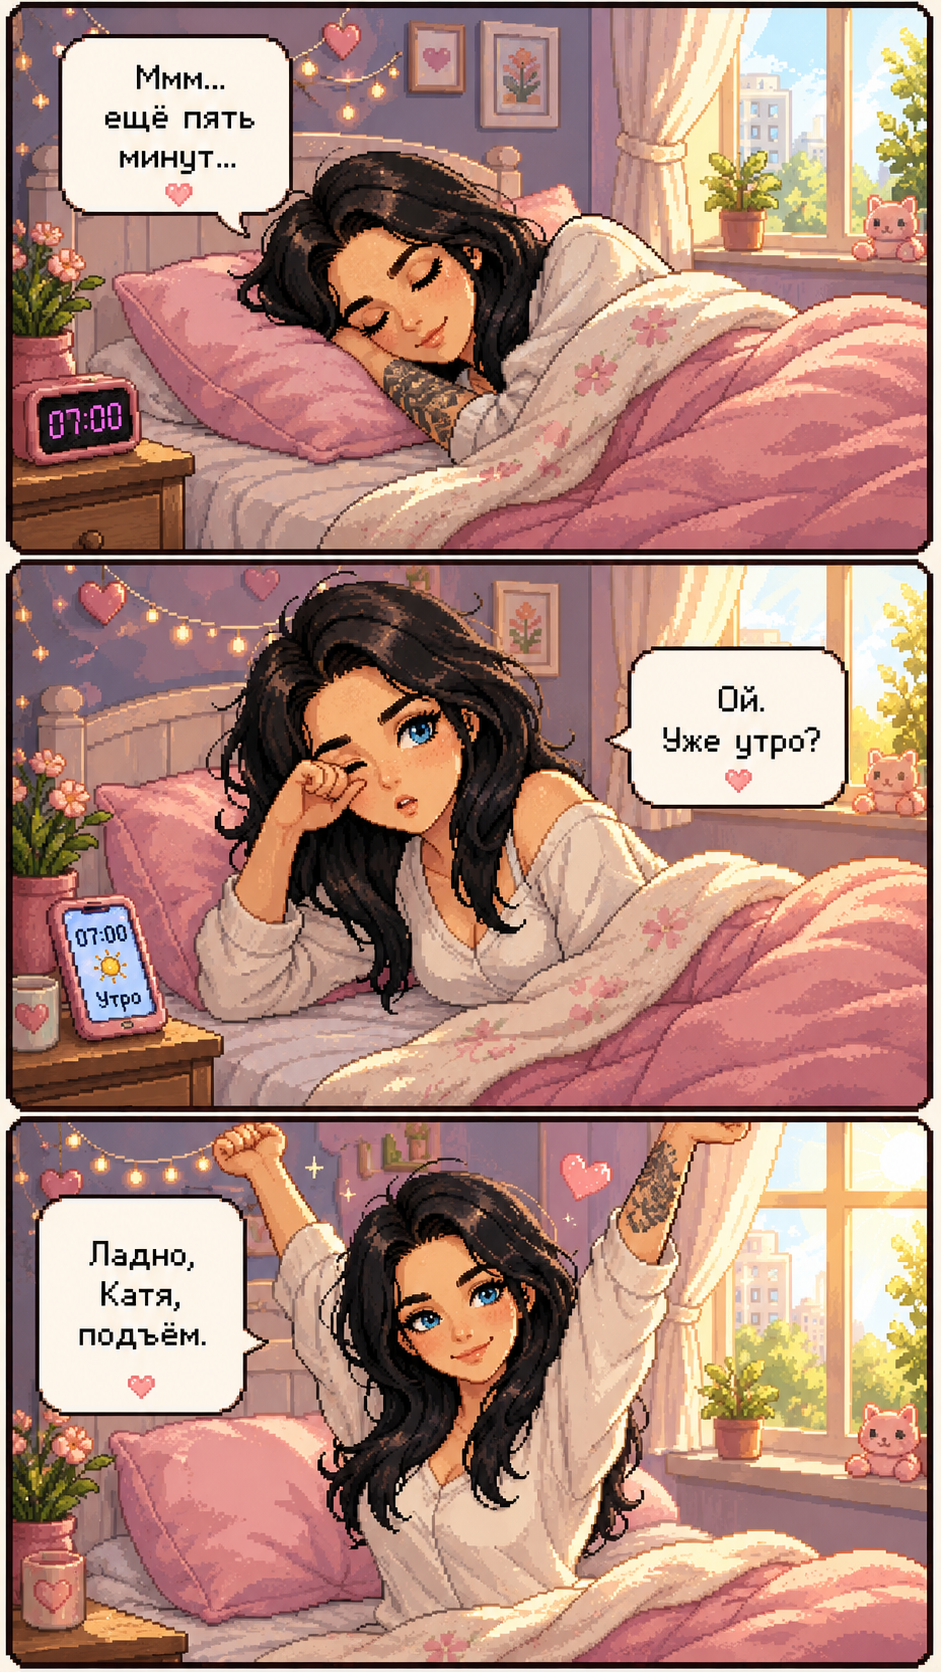
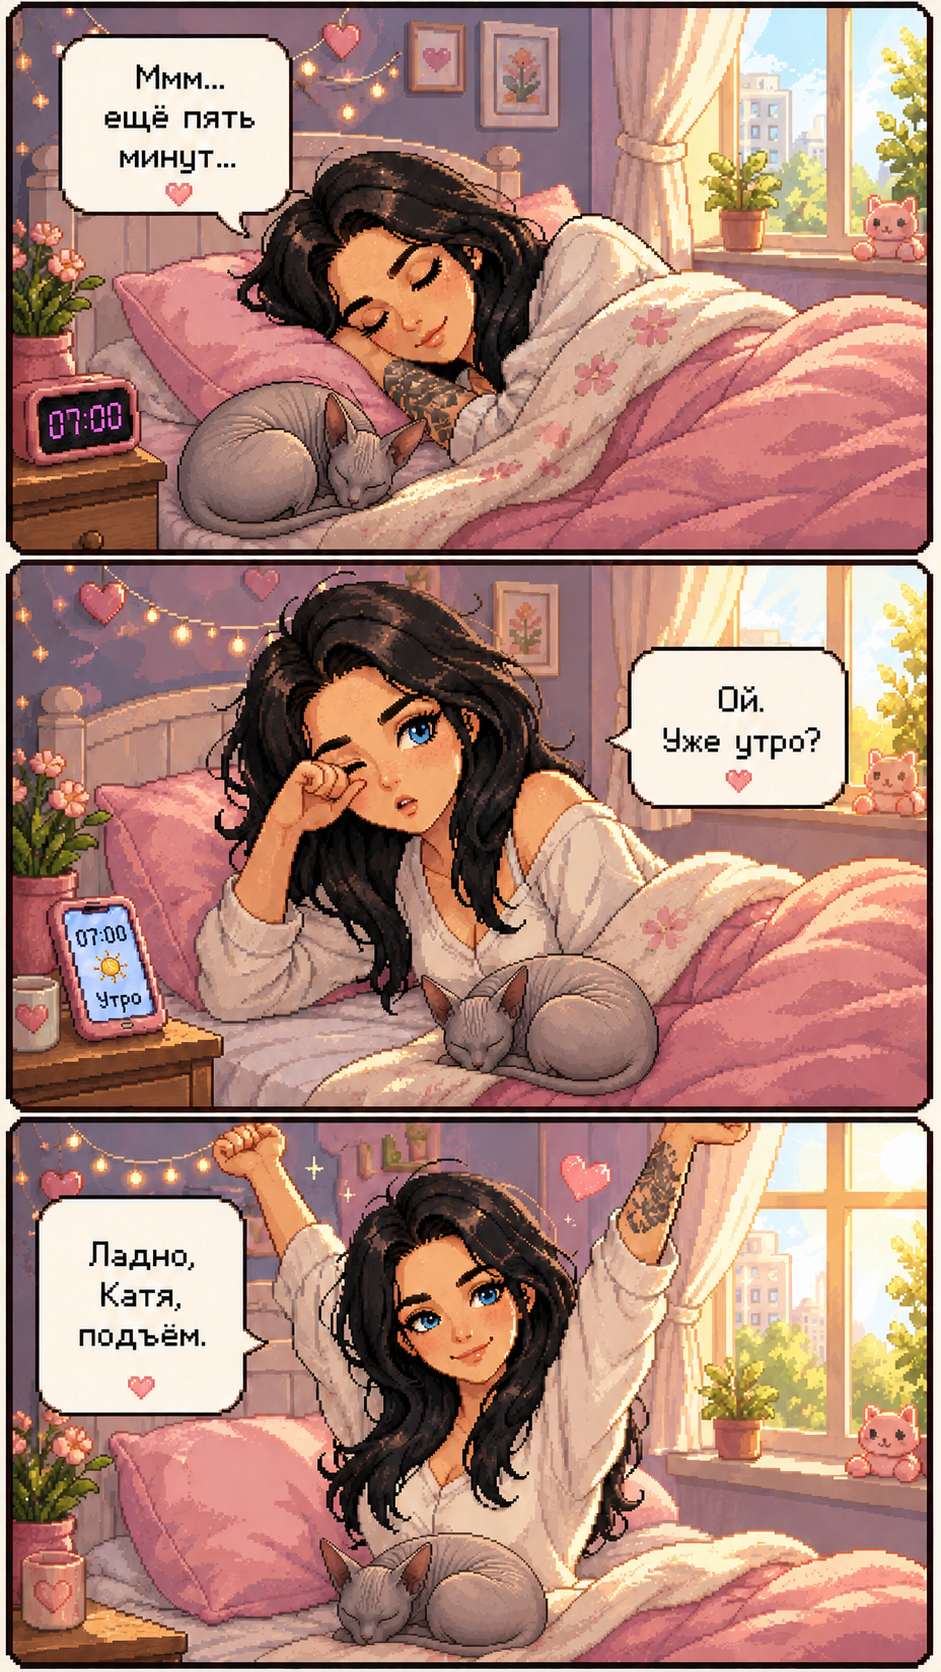
Add files via upload

diff --git a/index.html b/index.html
@@ -384,6 +384,29 @@
     px(x-2*s,y-15*s,4*s,3*s,palette.cyan);
     px(x-1*s,y+9*s,2*s,5*s,"#aaa");
   }
+  function drawSphynxCat(x,y,s=1,awake=false){
+    // curled hairless cat, gray-beige like the real kitty
+    px(x-16*s,y-8*s,30*s,18*s,"#b9aaa4");
+    px(x-13*s,y-11*s,24*s,16*s,"#c9bab4");
+    px(x-7*s,y-13*s,15*s,13*s,"#b8a9a4");
+    px(x-12*s,y-18*s,7*s,12*s,"#8f7774");
+    px(x+3*s,y-18*s,7*s,12*s,"#8f7774");
+    px(x-4*s,y-9*s,2*s,2*s,awake ? "#4ac7ff" : "#6f5f5a");
+    px(x+3*s,y-9*s,2*s,2*s,awake ? "#4ac7ff" : "#6f5f5a");
+    px(x-2*s,y-5*s,4*s,1*s,"#6f5f5a");
+    px(x-12*s,y-4*s,18*s,1*s,"#8f817c");
+    px(x-10*s,y+0*s,16*s,1*s,"#8f817c");
+    px(x+9*s,y+1*s,8*s,3*s,"#a69590");
+  }
+  function drawCatFoodBowl(x,y,s=1,filled=true){
+    px(x-14*s,y-4*s,28*s,8*s,"#72dcff");
+    px(x-10*s,y-7*s,20*s,5*s,"#aeeeff");
+    if(filled){
+      px(x-8*s,y-9*s,4*s,3*s,"#8b4b24");
+      px(x-2*s,y-10*s,4*s,3*s,"#8b4b24");
+      px(x+4*s,y-9*s,4*s,3*s,"#8b4b24");
+    }
+  }
   function drawRoom(){
     px(0,0,W,H,"#ffeef8");
     for(let i=0;i<9;i++) px(i*44,0,2,H,"rgba(255,255,255,.05)");
@@ -494,15 +517,16 @@
     breakfast = {
       step:0, score:0, timer:45, panHeat:0, smoke:0,
       items:[
-        {name:"ЯЙЦО", x:42,y:470,w:72,h:58, ok:0, c:"#fff"},
-        {name:"ТОСТ", x:144,y:470,w:72,h:58, ok:1, c:"#d89b4b"},
-        {name:"КОФЕ", x:246,y:470,w:72,h:58, ok:2, c:"#7a4328"},
-        {name:"IQOS", x:144,y:545,w:72,h:58, ok:3, c:"#e9e9f6"}
+        {name:"КИСА", x:42,y:462,w:72,h:58, ok:0, c:"#c7b4aa"},
+        {name:"ЯЙЦО", x:144,y:462,w:72,h:58, ok:1, c:"#fff"},
+        {name:"ТОСТ", x:246,y:462,w:72,h:58, ok:2, c:"#d89b4b"},
+        {name:"КОФЕ", x:90,y:535,w:72,h:58, ok:3, c:"#7a4328"},
+        {name:"IQOS", x:198,y:535,w:72,h:58, ok:4, c:"#e9e9f6"}
       ],
-      order:["ЯЙЦО","ТОСТ","КОФЕ","IQOS"],
+      order:["КИСА","ЯЙЦО","ТОСТ","КОФЕ","IQOS"],
       fx:[]
     };
-    hint("Мини-игра: готовим завтрак. Нажимай продукты в правильном порядке: яйцо → тост → кофе → IQOS-пауза.");
+    hint("Мини-игра: утро Кати. Первым делом накорми КИСУ, потом завтрак: яйцо → тост → кофе → IQOS-пауза.");
     setButtons({wide:false});
   }
   function clickBreakfast(x,y){
@@ -511,8 +535,8 @@
         if(it.ok===breakfast.step){
           breakfast.step++; breakfast.score += 25;
           breakfast.fx.push({x:it.x+36,y:it.y,txt:"+25",life:1});
-          toast(it.name==="IQOS" ? "Короткая пауза и дальше в бой" : "Отлично!");
-          if(breakfast.step>=4){
+          toast(it.name==="КИСА" ? "Киса накормлена!" : (it.name==="IQOS" ? "Короткая пауза и дальше в бой" : "Отлично!"));
+          if(breakfast.step>=5){
             save.hearts += 1;
             setTimeout(()=>startStory(1), 650);
           }
@@ -540,17 +564,24 @@
     px(157,260,58,42,"#f4f4ff"); px(171,273,30,15,"#fff1c7");
     drawCoffee(257,280,2);
     drawPixelKatya(142,150,3,Math.floor(t/250)%2);
-    if(breakfast.step>=3){
+
+    // Kisa waits for breakfast first
+    drawSphynxCat(75,385,2, breakfast.step>0);
+    drawCatFoodBowl(123,394,1.4, breakfast.step>0);
+    text(breakfast.step>0 ? "Киса сыта" : "Киса ждёт",75,415,11,breakfast.step>0?palette.green:palette.yellow,"center");
+
+    if(breakfast.step>=4){
       drawIQOS(118,184,2);
       for(let i=0;i<4;i++) px(118+i*8, 150 - ((breakfast.smoke*20+i*13)%40), 3,3, "rgba(210,240,255,.7)");
     }
     px(20,406,320,48,"rgba(0,0,0,.45)");
-    text("Порядок: "+breakfast.order.map((o,i)=> i<breakfast.step ? "✓" : o).join(" → "),180,420,12,"#fff","center");
+    text("Порядок: "+breakfast.order.map((o,i)=> i<breakfast.step ? "✓" : o).join(" → "),180,420,10,"#fff","center");
     text("Время: "+Math.ceil(breakfast.timer),24,38,14,palette.cream);
     text("Очки: "+breakfast.score,260,38,14,palette.green);
     for(const it of breakfast.items){
       px(it.x,it.y,it.w,it.h,"rgba(0,0,0,.35)");
       px(it.x+4,it.y+4,it.w-8,it.h-8,it.c);
+      if(it.name==="КИСА"){ drawSphynxCat(it.x+36,it.y+28,1.15,true); drawCatFoodBowl(it.x+36,it.y+46,.85,true); }
       if(it.name==="ЯЙЦО"){ px(it.x+24,it.y+20,24,18,"#fff"); px(it.x+33,it.y+25,8,8,palette.yellow); }
       if(it.name==="ТОСТ"){ px(it.x+22,it.y+15,28,30,"#bb7434"); px(it.x+28,it.y+21,16,18,"#f0bd71"); }
       if(it.name==="КОФЕ") drawCoffee(it.x+36,it.y+29,1.6);

diff --git a/README.md b/README.md
@@ -24,3 +24,9 @@
 - `comic_04_drift.png` — после тенниса, вечерний драйв.
 - `comic_05_poledance.png` — после дрифта, студия пулдэнса.
 - `comic_06_ilya.png` — финал, написать Илье.
+
+
+## Обновление
+
+- В первом комиксе добавлена лысая киса.
+- В мини-игре завтрака первое обязательное действие теперь: накормить КИСУ.